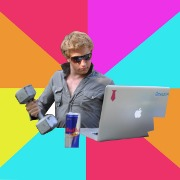
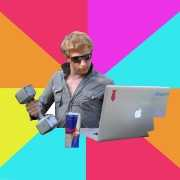
Decreased the quality of a bunch of the images, there's no reason these templates should be 200kb.

diff --git a/web/static/html/index.html b/web/static/html/index.html
@@ -48,8 +48,8 @@
       <a href='#' id='fry-back-button' class='back-button'>
         <img src='images/xicon.png' class='back-button'/>
       </a>
-      <img id='fry-thumb' src='images/thumbs/fry.png' class='meme-thumb'/>
-      <img id='fry-image' src='images/fry.png' class='meme-image'/>
+      <img id='fry-thumb' src='images/thumbs/fry.jpg' class='meme-thumb'/>
+      <img id='fry-image' src='images/fry.jpg' class='meme-image'/>
       <canvas id='fry-canvas' class='editor-canvas'></canvas>
       <div id='fry-inputs-container' class='fm-inputs-container'>
         <input id='fry-top' class='fm-top-text' value='top text' type='text'/>
@@ -115,8 +115,8 @@
       <a href='#' id='scumbagbrain-back-button' class='back-button'>
         <img src='images/xicon.png' class='back-button'/>
       </a>
-      <img id='scumbagbrain-thumb'src='images/thumbs/scumbagbrain.png' class='meme-thumb'/>
-      <img id='scumbagbrain-image'src='images/scumbagbrain.png' class='meme-image'/>
+      <img id='scumbagbrain-thumb'src='images/thumbs/scumbagbrain.jpg' class='meme-thumb'/>
+      <img id='scumbagbrain-image'src='images/scumbagbrain.jpg' class='meme-image'/>
       <canvas id='scumbagbrain-canvas' class='editor-canvas'></canvas>
       <div id='scumbagbrain-inputs-container' class='fm-inputs-container'>
         <input id='scumbagbrain-top' class='fm-top-text' value='top text' type='text'/>
